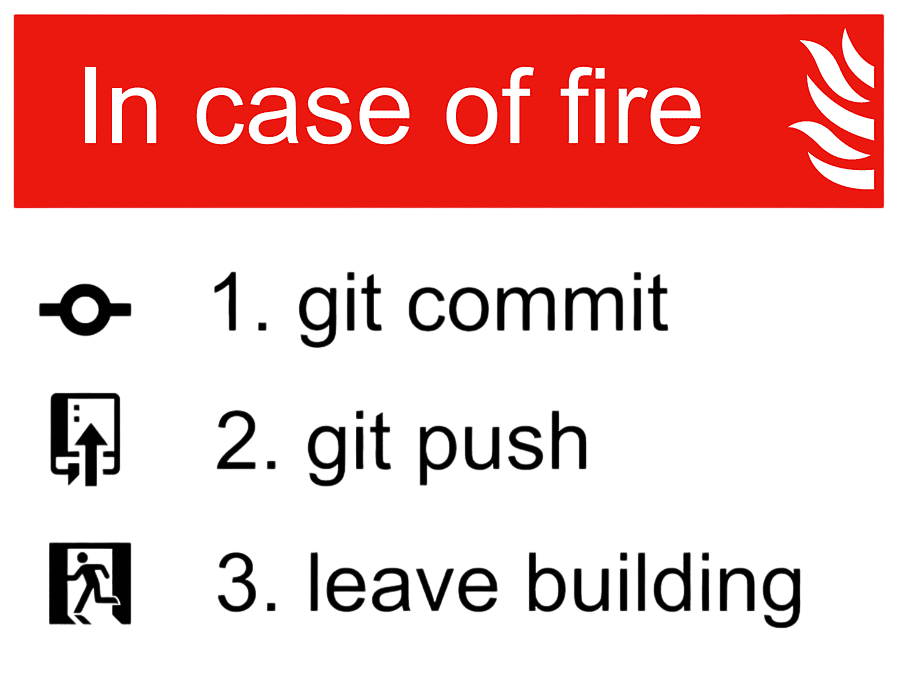
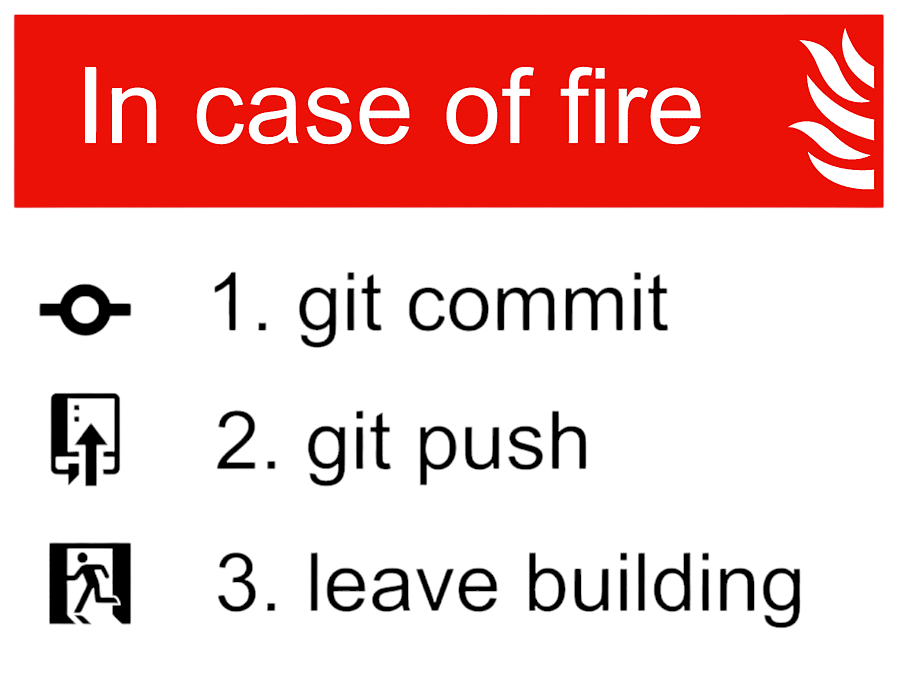
docs: update README and data.json with workshop resources

diff --git a/README.md b/README.md
@@ -10,6 +10,15 @@ This is a comprehensive Git workshop designed to introduce developers to Git ver
 
 **Note: The workshop and slides are in Italian.**
 
+## 🔗 Resources
+
+<p align="center">
+  <b>🎬 <a href="https://youtu.be/QbXAskIENVM">Watch full workshop recording on YouTube</a> </b> (in Italian)
+</p>
+<p align="center">
+  <b>📊 <a href="https://zakantonio.github.io/workshop-git/">Explore the interactive presentation</a></b> (in Italian)
+</p>
+
 ## 🔍 Workshop Content
 
 The workshop covers a wide range of Git topics including:
@@ -22,17 +31,8 @@ The workshop covers a wide range of Git topics including:
 - 💡 Tips and tricks (Cherry-pick, Patch, Stash, Blame)
 - ✅ Best practices and workflows
 
-## 🔗 Resources
-
-### Workshop Materials
-
-- 📊 [Workshop Slides](https://zakantonio.github.io/workshop-git/) - Interactive presentation with all workshop content (in Italian)
-- 🎥 [Workshop Recording](https://youtu.be/QbXAskIENVM) - Video recording of the workshop presentation (in Italian)
-
-### Additional Resources
-
-The workshop includes links to various Git resources:
-
+## 🔗 Additional Resources
+In the slides you will find links to additional resources for further learning:
 - 📚 Official Git documentation
 - 📝 Git cheat sheets
 - 🙈 .gitignore templates
@@ -54,7 +54,7 @@ This workshop material is available for educational purposes.
 ---
 
 <p align="center">
-  <img src="assets/images/incaseoffire.png" style="background-color: white" alt="Git Branching" width="300">
+  <img src="assets/images/incaseoffire.png" alt="Git Branching" width="250">
 </p>
 
 *Note: This workshop was created to help developers understand and effectively use Git for version control in their projects.* ⭐
